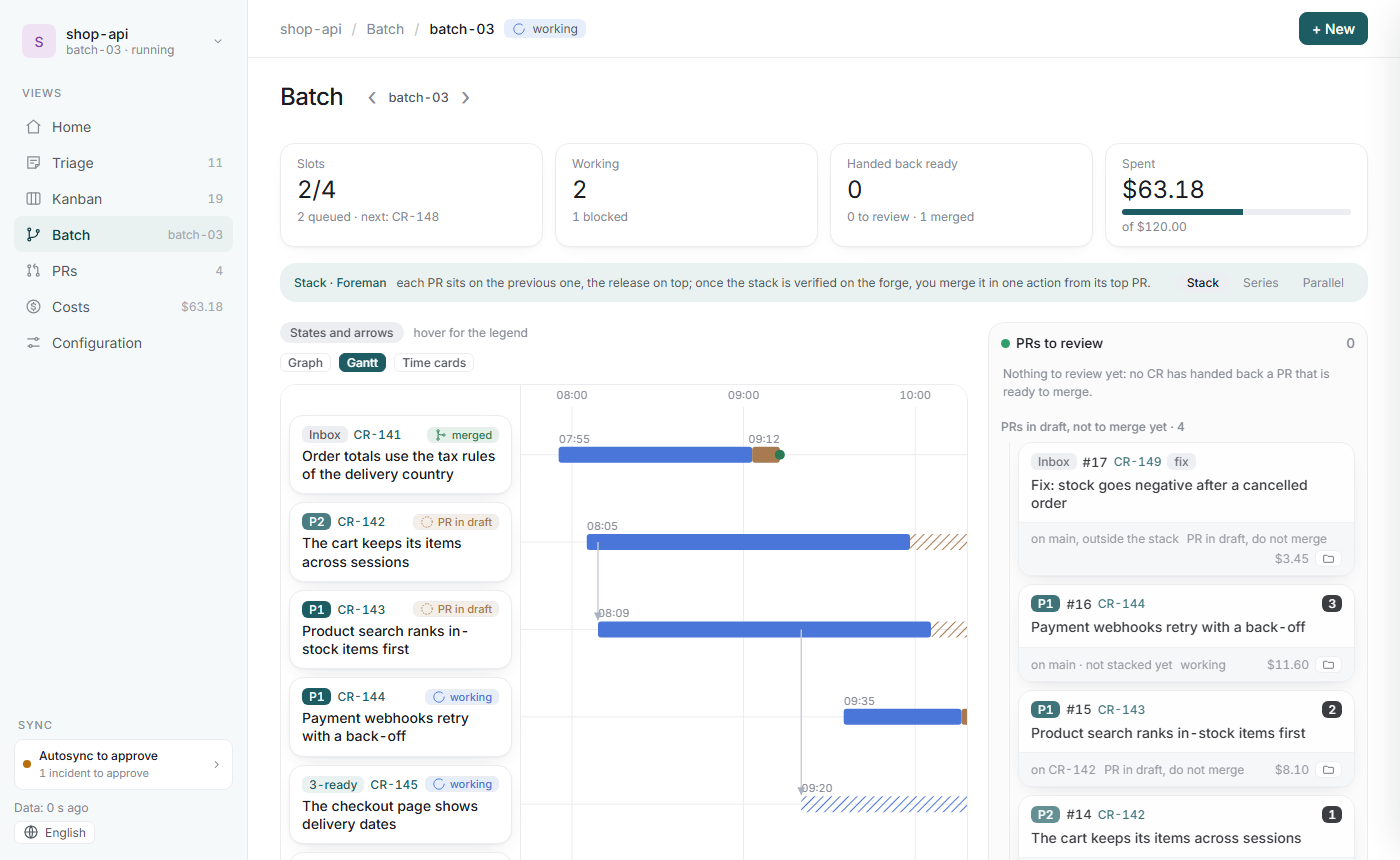
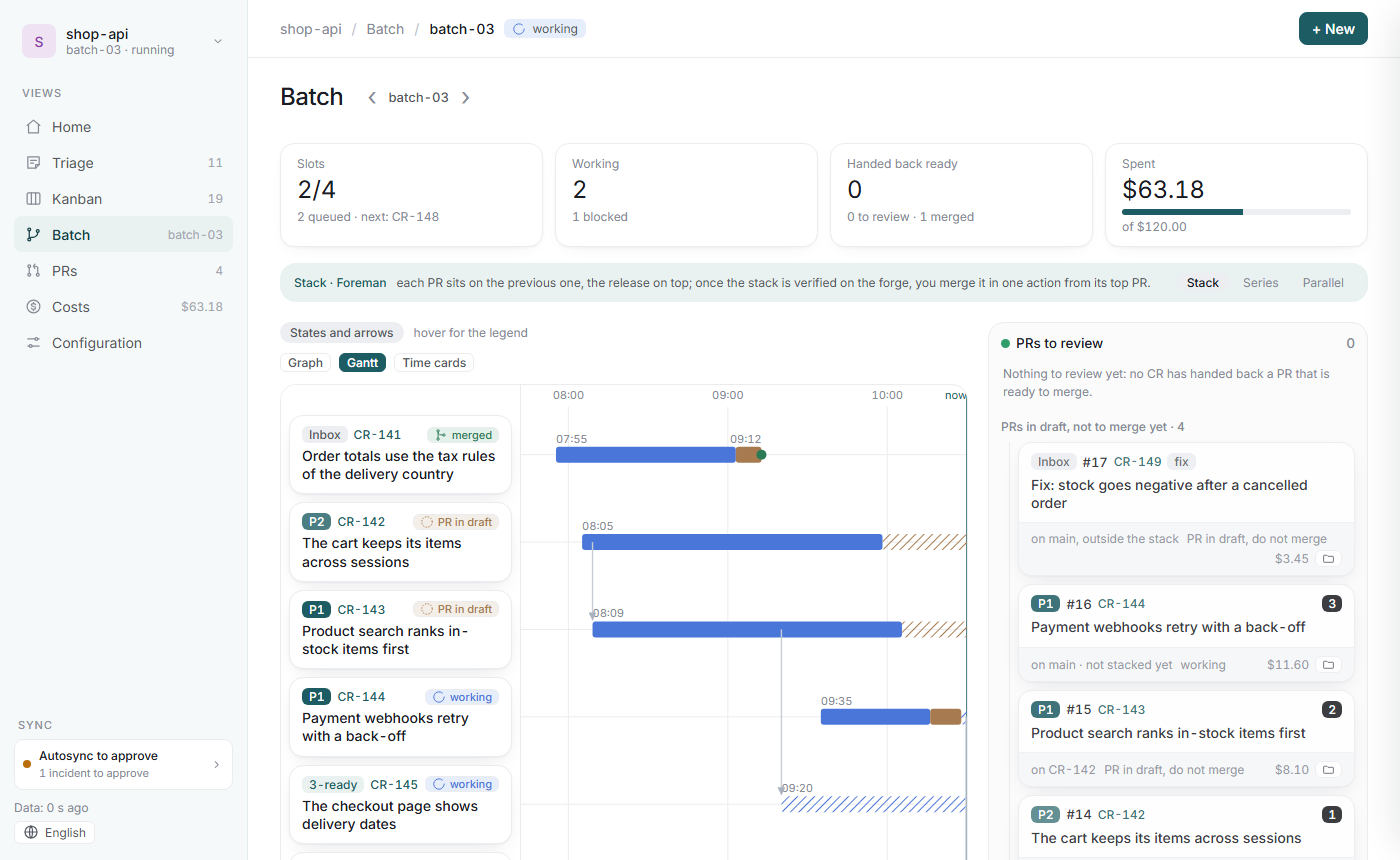
fix(board): fit the Gantt in its panel at desktop width so the now line stays visible

diff --git a/skills/chantier/scripts/cli/src/chantier/board/web/css/views/batch-gantt.css b/skills/chantier/scripts/cli/src/chantier/board/web/css/views/batch-gantt.css
@@ -8,7 +8,7 @@
 
 .batch .gt {
   display: grid;
-  grid-template-columns: 240px minmax(480px, 1fr);
+  grid-template-columns: 240px minmax(400px, 1fr);
   min-width: max-content;
 }
 
@@ -104,6 +104,6 @@
 
 @media (width <= 700px) {
   .batch .gt {
-    grid-template-columns: 220px minmax(480px, 1fr);
+    grid-template-columns: 220px minmax(400px, 1fr);
   }
 }
